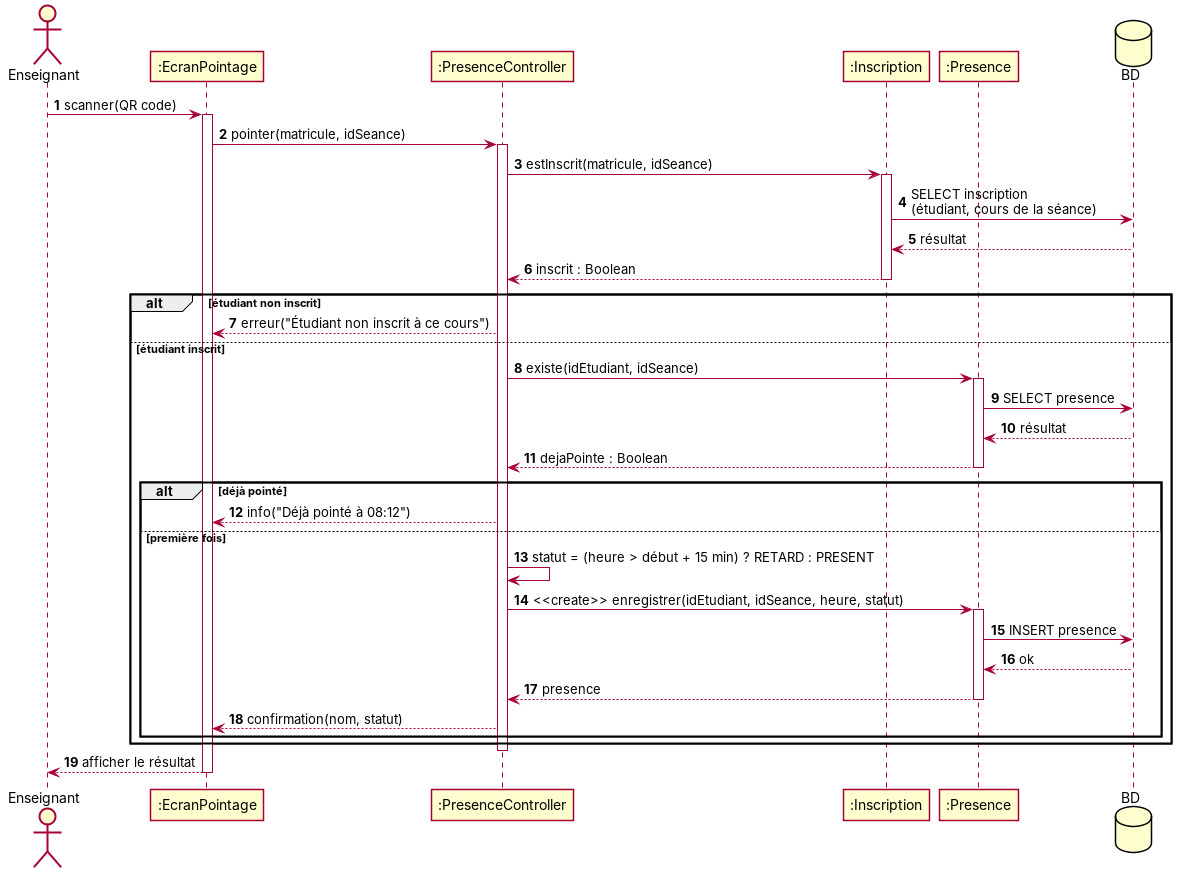
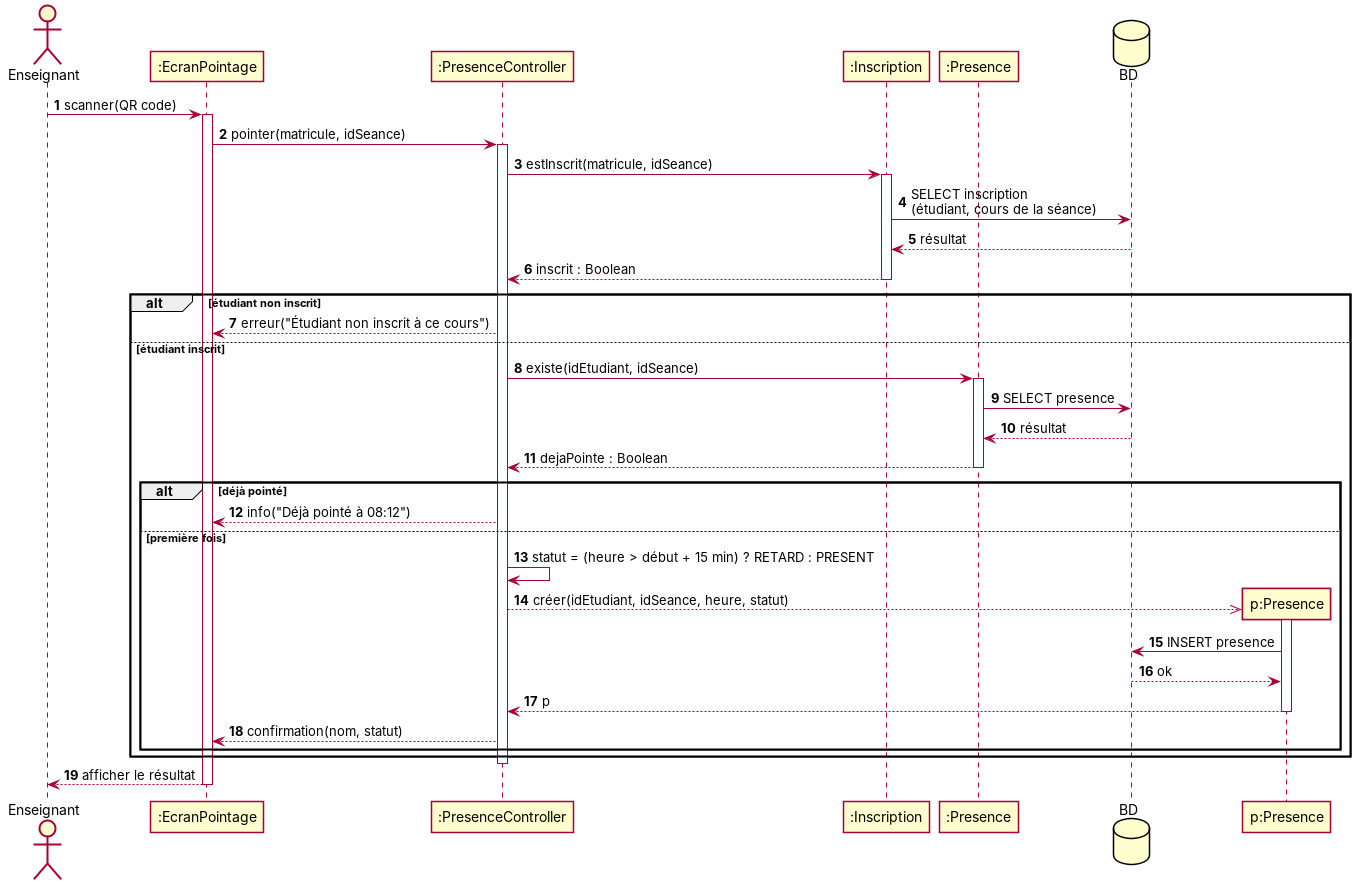
docs(uml): alignement sur la norme UML 2.5.1 (v1.8.0)

diff --git a/plugins/dev-memoire-kit/skills/redaction-memoire/references/uml.md b/plugins/dev-memoire-kit/skills/redaction-memoire/references/uml.md
@@ -2,9 +2,23 @@
 
 La modélisation est la partie où les mémoires de licence sont le plus souvent faibles : diagrammes recopiés d'Internet, définis au lieu d'être montrés, incohérents avec la base de données réelle. Ce guide donne une **méthode pas à pas**, puis le détail de chaque diagramme, et la correspondance avec la base de données. Un exemple complet en PlantUML sur un sujet réel (pointage des étudiants) est dans `assets/uml-exemple-pointage.md`.
 
+**Norme de référence : UML 2.5.1** (Object Management Group, *OMG Unified Modeling Language Specification*, version 2.5.1, formal/2017-12-05, décembre 2017), la version en vigueur. Les notations de ce guide la suivent. À citer en webographie **seulement si l'étudiant l'a consultée** :
+`Object Management Group. *OMG Unified Modeling Language (OMG UML), Version 2.5.1*. [En ligne]. [Consulté le JJ mois AAAA]. https://www.omg.org/spec/UML/2.5.1/PDF`
+(La norme ISO/IEC 19505:2012 correspond à la version antérieure, UML 2.4.1.)
+
 ---
 
 ## 1. Principes
+
+### Les 14 diagrammes d'UML 2.5
+| Famille | Diagrammes |
+|---|---|
+| Structure | classes, objets, paquetages, composants, structure composite, déploiement, profils |
+| Comportement | cas d'utilisation, activité, états-transitions (machine à états) |
+| Interaction (comportement) | séquence, communication, vue d'ensemble des interactions, temps |
+
+La norme présente cette classification à titre indicatif et ne fixe pas de frontières strictes entre les diagrammes. Un mémoire de licence n'en utilise que 4 à 6 (§2) : savoir dire au jury pourquoi les autres ne sont pas utiles au projet.
+
 
 1. **Un diagramme sert à montrer une décision**, pas à remplir une section. Chaque diagramme du mémoire doit répondre à une question : *qui fait quoi ?* (cas d'utilisation), *quelles données et quels liens ?* (classes), *dans quel ordre ?* (séquence, activité), *où ça tourne ?* (déploiement).
 2. **Modéliser le système réel**, pas un système idéal : les diagrammes doivent correspondre au code et à la base livrés. Le jury compare.
@@ -55,7 +69,7 @@ La modélisation est la partie où les mémoires de licence sont le plus souvent
 | Association | Trait plein acteur — cas | L'acteur participe au cas. |
 | Généralisation d'acteurs | Flèche à triangle creux de l'acteur spécialisé vers le général | « Administrateur » hérite des cas d'« Utilisateur ». |
 | `<<include>>` | Flèche pointillée **du cas de base vers le cas inclus** | Le cas inclus est **toujours** exécuté. |
-| `<<extend>>` | Flèche pointillée **du cas d'extension vers le cas de base** | Le cas d'extension est **optionnel**, sous condition. |
+| `<<extend>>` | Flèche pointillée **du cas d'extension vers le cas de base** | Le cas d'extension est **optionnel**, sous condition. La norme permet de préciser, dans une **note** attachée à la flèche, la **condition** et le **point d'extension** (`Condition : {code promo saisi}` · `extension point : Paiement`), le point d'extension étant listé dans le cas de base (compartiment *extension points*). |
 
 ### 4.2 `include` ou `extend` ? (la question favorite du jury)
 - **include** = « fait toujours partie de ». *Valider une commande* inclut *Calculer le montant*. Sans lui, le cas de base est incomplet.
@@ -126,7 +140,7 @@ Toujours lire une association **dans les deux sens** :
 La multiplicité s'écrit **du côté de la classe qu'elle compte**. C'est l'erreur la plus fréquente, et le piège classique quand on vient de Merise, où les cardinalités se placent de l'autre côté (voir §8).
 
 ### 5.3 Agrégation, composition ou simple association ?
-- Doute ? → **simple association**. C'est presque toujours suffisant en licence.
+- Doute ? → **simple association**. C'est presque toujours suffisant en licence. Argument à donner au jury : la norme UML 2.5.1 indique elle-même que la sémantique précise de l'agrégation simple (losange creux) **n'est pas définie** et varie selon les domaines ; seule la composition a un sens strict (une partie appartient à un seul composite à la fois et disparaît avec lui).
 - Composition seulement si la partie **ne peut pas exister sans le tout** et **lui appartient à un seul** (ligne de facture, réponse d'un questionnaire).
 - Ne jamais mettre de losange des deux côtés.
 
@@ -150,13 +164,18 @@ La multiplicité s'écrit **du côté de la classe qu'elle compte**. C'est l'err
 | Ligne de vie | Rectangle en haut + trait vertical pointillé | Un acteur ou un objet (`:SeanceController`) |
 | Message synchrone | Flèche pleine à pointe **pleine** | L'appelant attend la réponse |
 | Message asynchrone | Flèche pleine à pointe **ouverte** | Envoi sans attendre (notification, file de messages) |
-| Retour | Flèche **pointillée** | Réponse ou valeur retournée |
+| Retour (réponse) | Flèche **pointillée** à pointe ouverte | Réponse ou valeur retournée |
 | Activation | Rectangle étroit sur la ligne de vie | Période où l'objet travaille |
-| Création / destruction | Message `<<create>>` / croix en bas de la ligne | Objet créé ou détruit pendant le scénario |
+| Création | Flèche **pointillée** à pointe ouverte qui arrive sur la **tête** de la ligne de vie créée (placée plus bas que les autres) | Objet créé pendant le scénario. Le stéréotype `<<create>>` n'est pas requis par la norme |
+| Destruction | Croix (×) en bas de la ligne de vie | Objet détruit pendant le scénario |
 | Fragment `alt` | Cadre avec conditions `[si…]` / `[sinon]` | Alternative |
 | Fragment `opt` | Cadre avec une condition | Option (sans sinon) |
 | Fragment `loop` | Cadre `loop [pour chaque étudiant]` | Répétition |
-| Fragment `ref` | Cadre qui renvoie à une autre séquence | Réutiliser « S'authentifier » sans le redessiner |
+| Fragment `par` | Cadre découpé en zones exécutées en parallèle | Envoi d'un SMS et d'un e-mail en même temps |
+| Fragment `break` | Cadre avec une condition : si elle est vraie, son contenu s'exécute puis le scénario s'arrête | Abandon après trois échecs d'authentification |
+| Fragment `ref` | Cadre qui renvoie à une autre séquence (*interaction use*) | Réutiliser « S'authentifier » sans le redessiner |
+
+La norme définit aussi `seq`, `strict`, `neg`, `critical`, `ignore`, `consider` et `assert` : rarement utiles en licence. Les conditions (*gardes*) s'écrivent entre crochets en tête de zone : `[solde suffisant]`.
 
 ### 6.2 Méthode
 1. Partir de la **description textuelle** du cas (§4.4) : un pas du scénario = un ou deux messages.
@@ -281,7 +300,9 @@ Puis **vérifier chaque élément** contre le code : un diagramme généré est 
 
 ## 12. Questions du jury sur la modélisation (à préparer)
 - Différence entre `include` et `extend` ? Donnez un exemple tiré de votre diagramme.
-- Différence entre agrégation et composition ? Pourquoi ce choix ici ?
+- Différence entre agrégation et composition ? Pourquoi ce choix ici ? (Réponse attendue : la composition implique l'appartenance exclusive et la disparition avec le tout ; la norme ne donne pas de sens précis à l'agrégation simple.)
+- Quelle version d'UML avez-vous suivie ? (UML 2.5.1, OMG, 2017.)
+- Pourquoi ces diagrammes et pas les autres parmi les 14 d'UML ?
 - Que signifie cette multiplicité ? Lisez l'association dans les deux sens.
 - Comment cette association a-t-elle été traduite dans la base ? Montrez la table.
 - Pourquoi avoir choisi UML plutôt que Merise (ou les deux) ?

diff --git a/CHANGELOG.md b/CHANGELOG.md
@@ -1,5 +1,17 @@
 # Historique des versions
 
+## 1.8.0 — 01/11/2026
+### Modifications
+- **redaction-memoire** (`uml.md`) aligné sur la norme **UML 2.5.1** (OMG, formal/2017-12-05) :
+  - référence de la norme et format de citation en webographie ;
+  - les 14 diagrammes d'UML 2.5 par famille, et la question « pourquoi ces diagrammes ? » ;
+  - message de création noté selon la norme (flèche pointillée vers la tête de la nouvelle ligne de vie) ;
+  - fragments `par` et `break`, liste des autres opérateurs ;
+  - condition et point d'extension d'un `extend` ;
+  - sémantique de l'agrégation (non définie par la norme) comme argument pour la simple association ;
+  - nouvelles questions du jury.
+- Exemple « pointage » : diagramme de séquence corrigé (création de `p:Presence`) et redessiné.
+
 ## 1.7.0 — 15/10/2026
 Corrections issues de la relecture d'un brouillon complet rédigé avec le plugin.
 ### Vérificateur (`verifier_memoire.py`)

diff --git a/plugins/dev-memoire-kit/skills/redaction-memoire/assets/uml-exemple-pointage.md b/plugins/dev-memoire-kit/skills/redaction-memoire/assets/uml-exemple-pointage.md
@@ -219,12 +219,13 @@ else étudiant inscrit
     C --> V : info("Déjà pointé à 08:12")
   else première fois
     C -> C : statut = (heure > début + 15 min) ? RETARD : PRESENT
-    C -> P : <<create>> enregistrer(idEtudiant, idSeance, heure, statut)
-    activate P
-    P -> DB : INSERT presence
-    DB --> P : ok
-    P --> C : presence
-    deactivate P
+    create participant "p:Presence" as NP
+    C -->> NP : créer(idEtudiant, idSeance, heure, statut)
+    activate NP
+    NP -> DB : INSERT presence
+    DB --> NP : ok
+    NP --> C : p
+    deactivate NP
     C --> V : confirmation(nom, statut)
   end
 end
